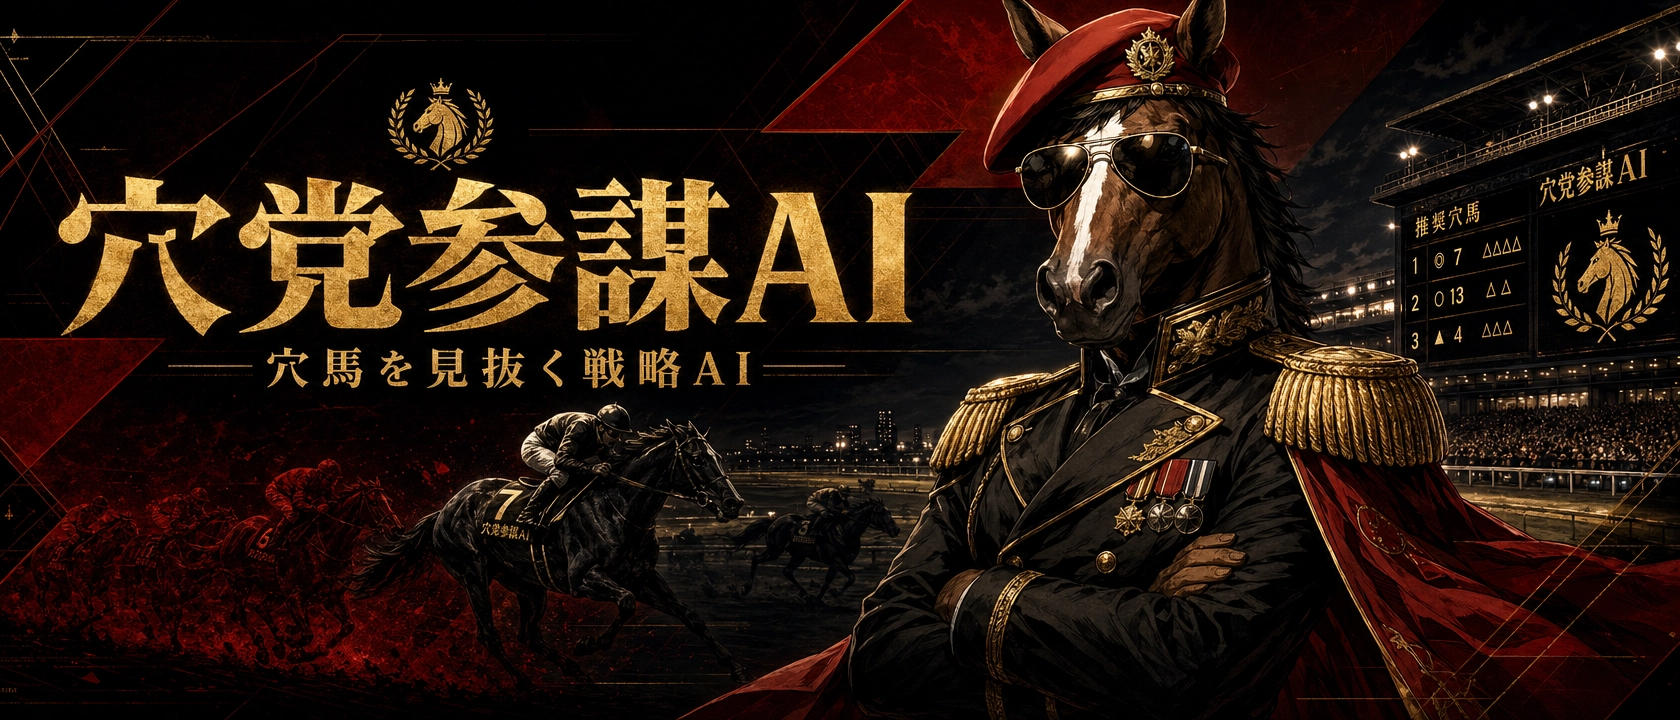
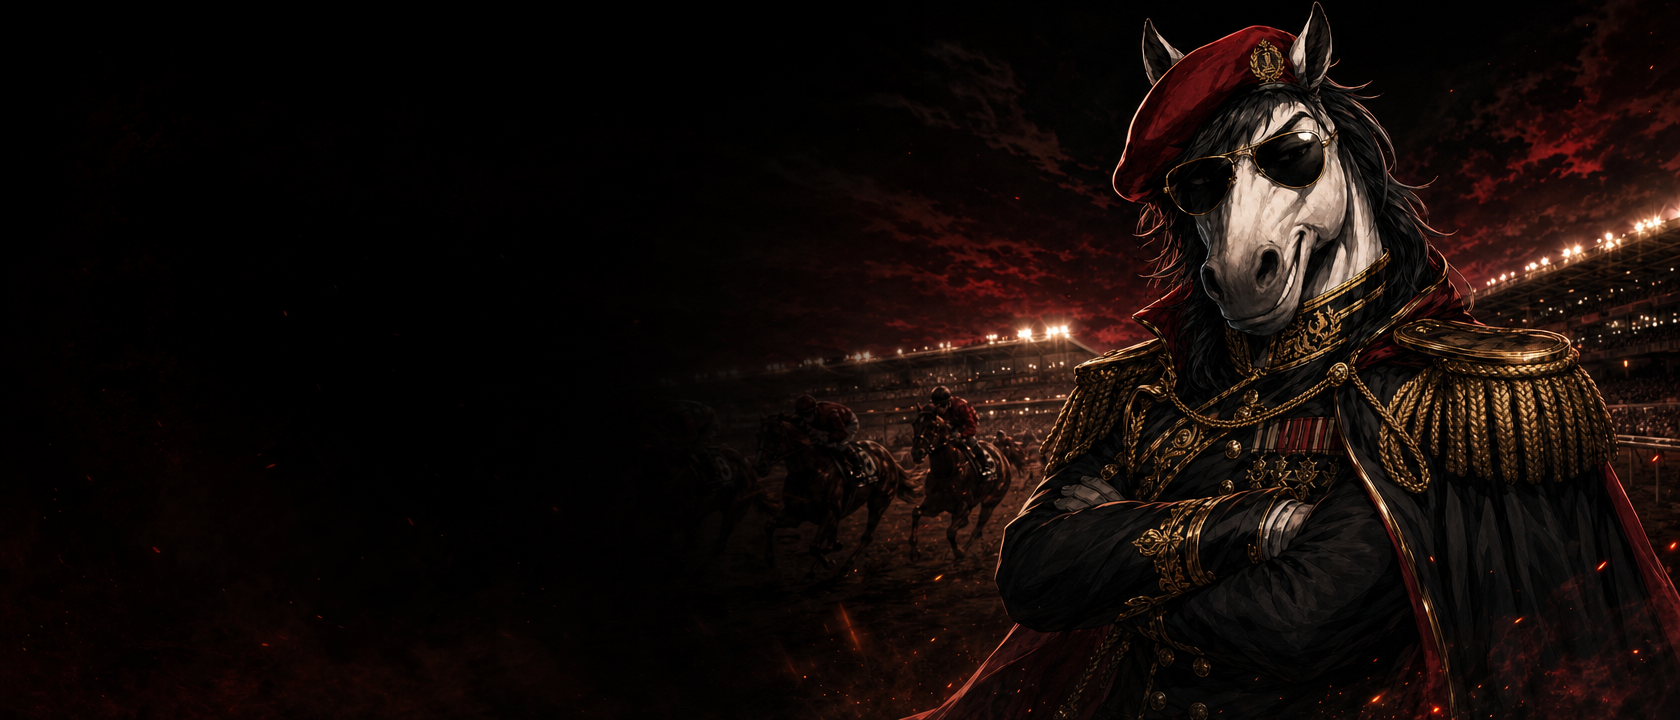
feat: 背景画像をテキストなし版に差し替え、モバイル用画像追加
- patternA_wallpaper.png: テキスト焼き込みなし新版に差し替え
- patternA_wallpaper_mobile.png: モバイル用縦長画像(750x1200)追加
- モバイルheroでpatternA_wallpaper_mobile.pngを使用

diff --git a/src/app/page.tsx b/src/app/page.tsx
@@ -456,7 +456,7 @@ function MobileTop({ isLoggedIn }: { isLoggedIn: boolean }) {
       {/* Hero */}
       <section style={{ position: "relative", height: 620, overflow: "hidden" }}>
         <Image
-          src="/images/patternA_wallpaper.png"
+          src="/images/patternA_wallpaper_mobile.png"
           alt=""
           fill
           sizes="100vw"
